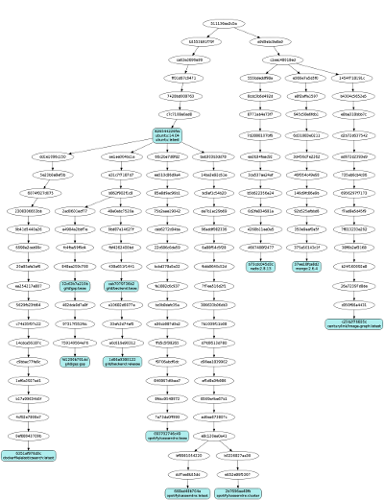
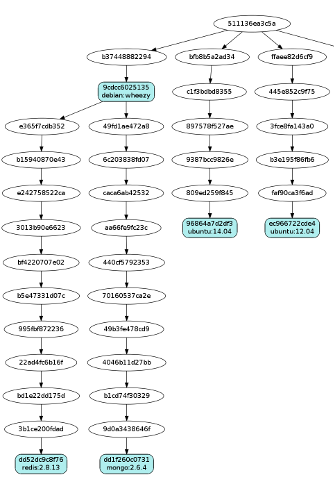
Added more slides on images

Changed region(s): [[0.0, 0.03, 1.0, 1.0]]

diff --git a/styles/main.scss b/styles/main.scss
@@ -1,0 +1,312 @@
+@import '../bower_components/normalize-scss/normalize';
+
+//variables
+$slideWidth: 1024px;
+$slideHeight: 640px;
+
+*, *:before, *:after {
+  box-sizing: border-box;
+}
+
+body {
+  overflow: hidden;
+  margin: 0;
+  padding: 0;
+}
+
+table {
+  width: 100%;
+  tr {
+    th, td {
+      padding: 10px;
+    }
+  }
+}
+
+#deck {
+  position: relative;
+}
+
+.slide {
+  position: absolute;
+  top: 50%;
+  left: -50%;
+  overflow: hidden;
+  height: $slideHeight;
+  width: $slideWidth;
+  padding: 30px;
+  transition: all .6s ease;
+  &.preview {
+    left: 100%;
+    top: 40px;
+  }
+  &.current {
+    left: 50%;
+    &.preview {
+      left: 40px;
+      top: 40px;
+    }
+  }
+  &.next {
+    &.preview {
+      left: 50%;
+      top: 40px;
+    }
+  }
+}
+
+#go-to {
+  z-index: 90;
+  width: 160px;
+  position: absolute;
+  left: 50%;
+  top: 0;
+  margin-left: -80px;
+  padding: 10px;
+  text-align: center;
+  border: 2px solid lighten(rgba(#000, .6), 40);
+  border-radius: 0 0 6px 6px;
+  color: #fff;
+  font-weight: bold;
+  background-color: rgba(#000, .6);
+  &.ng-hide {
+    top: -100px;
+  }
+  &.ng-hide-remove, &.ng-hide-add {
+    transition: all .4s ease;
+    display: block !important;
+  }
+  input {
+    width: 58px;
+    margin-left: 4px;
+    padding: 4px;
+    text-align: center;
+    color: #333;
+    border: none;
+  }
+}
+
+.credits {
+  position: absolute;
+  right: 0;
+  bottom: 20px;
+  padding: 0 20px 0 10px;
+  font-size: .8em;
+  color: #ccc;
+  background-color: rgba(#000, .6);
+  a {
+    color: #ccc;
+  }
+}
+
+#progress-bar {
+  z-index: 90;
+  position: absolute;
+  left: 0;
+  bottom: 0;
+  height: 8px;
+  transition: width .5s ease;
+}
+
+#slide-count {
+  position: absolute;
+  right: 20px;
+  bottom: 20px;
+  margin: 0;
+  padding: 5px 10px;
+  letter-spacing: .2em;
+}
+
+.abs-center {
+  position: absolute;
+  left: 50%;
+  top: 50%;
+  transform: translate(-50%, -50%);
+  margin: 0;
+}
+
+.flip {
+  display: block;
+  position: absolute;
+  left: 20px;
+  bottom: 20px;
+  .clock {
+    font-size: 0;
+    font-family: Arial, Verdana, sans-serif;
+    font-weight: bold;
+    * {
+      font-size: 70px;
+    }
+    > span {
+      position: relative;
+      display: inline-block;
+      margin-right: 10px;
+      padding: 5px 15px;
+      border-radius: 4px;
+      color: #fff;
+      box-shadow: 1px 1px 1px #555;
+      background-color: #333;
+      background: -webkit-linear-gradient(top, #333 0%, #444 50%, #333 51%, #222 100%);
+      background: linear-gradient(to bottom, #333 0%, #444 50%, #333 51%, #222 100%);
+      &:after {
+        content: '';
+        position: absolute;
+        left: 0;
+        top: 50%;
+        width: 100%;
+        height: 3px;
+        background-color: #111;
+      }
+    }
+    > b {
+      color: #666;
+      margin-right: 10px;
+    }
+  }
+  .commands {
+    text-align: center;
+    .btn {
+      margin: 20px 10px 10px 10px;
+      padding: 5px 10px;
+      border: 1px solid #000;
+      border-radius: 2px;
+      cursor: pointer;
+      color: #dedede;
+      background-color: #333;
+    }
+  }
+}
+
+
+
+/*
+Monokai Sublime style. Derived from Monokai by noformnocontent http://nn.mit-license.org/
+*/
+
+.hljs {
+  display: block;
+  padding: 0.5em;
+  background: #23241f;
+  color: #f8f8f2;
+  text-align: left;
+  font-size: 70%;
+}
+
+.hljs-tag {
+  color: #f8f8f2;
+}
+
+.css {
+  .hljs-rules, .hljs-value, .hljs-function .hljs-preprocessor {
+    color: #f8f8f2;
+  }
+}
+
+.hljs-pragma {
+  color: #f8f8f2;
+}
+
+.hljs-strongemphasis, .hljs-strong, .hljs-emphasis {
+  color: #a8a8a2;
+}
+
+.hljs-bullet, .hljs-blockquote, .hljs-horizontal_rule, .hljs-number, .hljs-regexp, .alias .hljs-keyword, .hljs-literal, .hljs-hexcolor {
+  color: #ae81ff;
+}
+
+.hljs-tag .hljs-value, .hljs-code, .hljs-title, .css .hljs-class, .hljs-class .hljs-title:last-child {
+  color: #a6e22e;
+}
+
+.hljs-link_url {
+  font-size: 80%;
+}
+
+.hljs-strong, .hljs-strongemphasis {
+  font-weight: bold;
+}
+
+.hljs-emphasis, .hljs-strongemphasis, .hljs-class .hljs-title:last-child {
+  font-style: italic;
+}
+
+.hljs-keyword, .hljs-function, .hljs-change, .hljs-winutils, .hljs-flow, .lisp .hljs-title, .clojure .hljs-built_in, .nginx .hljs-title, .tex .hljs-special, .hljs-header, .hljs-attribute {
+  color: #f92672;
+}
+
+.hljs-symbol {
+  color: #f92672;
+  .hljs-string {
+    color: #f92672;
+  }
+}
+
+.hljs-tag .hljs-title, .hljs-value, .alias .hljs-keyword:first-child {
+  color: #f92672;
+}
+
+.css {
+  .hljs-tag, .unit, .hljs-important {
+    color: #f92672;
+  }
+}
+
+.hljs-function .hljs-keyword, .hljs-class .hljs-keyword:first-child, .hljs-constant, .css .hljs-attribute {
+  color: #66d9ef;
+}
+
+.hljs-variable, .hljs-params, .hljs-class .hljs-title {
+  color: #f8f8f2;
+}
+
+.hljs-string, .css .hljs-id, .hljs-subst, .haskell .hljs-type, .ruby .hljs-class .hljs-parent, .hljs-built_in {
+  color: #e6db74;
+}
+
+.django {
+  .hljs-template_tag, .hljs-variable {
+    color: #e6db74;
+  }
+}
+
+.smalltalk .hljs-class, .django .hljs-filter .hljs-argument {
+  color: #e6db74;
+}
+
+.smalltalk {
+  .hljs-localvars, .hljs-array {
+    color: #e6db74;
+  }
+}
+
+.hljs-attr_selector, .hljs-pseudo, .hljs-addition, .hljs-stream, .hljs-envvar {
+  color: #e6db74;
+}
+
+.apache {
+  .hljs-tag, .hljs-cbracket {
+    color: #e6db74;
+  }
+}
+
+.tex .hljs-command, .hljs-prompt, .hljs-link_label, .hljs-link_url {
+  color: #e6db74;
+}
+
+.hljs-comment, .hljs-javadoc, .java .hljs-annotation, .python .hljs-decorator, .hljs-template_comment, .hljs-pi, .hljs-doctype, .hljs-deletion, .hljs-shebang, .apache .hljs-sqbracket, .tex .hljs-formula {
+  color: #75715e;
+}
+
+.coffeescript .javascript, .javascript .xml, .tex .hljs-formula {
+  opacity: 0.5;
+}
+
+.xml {
+  .javascript, .vbscript, .css, .hljs-cdata, .php {
+    opacity: 0.5;
+  }
+}
+
+.php .xml {
+  opacity: 0.5;
+}

diff --git a/slides.html b/slides.html
@@ -103,12 +103,53 @@
     Each layer is cached (possibly) reused by other images.
   </p>
   <p>
-    This means that if multiple images derive from <code class='inline'>ubuntu:14.04</code>
+    This means that if multiple images derive from <code class='inline'>debian:wheezy</code>
     that particular image is shared by all of them (thus downloaded once)
   </p>
   <p>
-     Images are stored in the hub and dowloaded from them.
+     Images are pushed/pull to/from the docker hub.
   </p>
+</slide>
+
+<slide>
+  <h2>Docker Images (3)</h2>
+  <code hljs>
+$ docker images
+REPOSITORY                TAG                 IMAGE ID            CREATED             VIRTUAL SIZE
+redis                     2.8.13              dd52dc9c8f76        9 minutes ago       98.44 MB
+mongo                     2.6.4               dd1f260c0731        12 minutes ago      391.2 MB
+debian                    wheezy              9cdcc6025135        18 hours ago        85.19 MB
+ubuntu                    14.04               96864a7d2df3        2 days ago          204.4 MB
+ubuntu                    12.04               ec966722cde4        2 days ago          103.8 MB
+  </code>
+</slide>
+
+<slide>
+  <h2>Docker Images (4)</h2>
+  <code hljs>
+$ docker images --tree
+└─511136ea3c5a Virtual Size: 0 B
+  └─b37448882294 Virtual Size: 85.19 MB
+    └─9cdcc6025135 Virtual Size: 85.19 MB Tags: debian:wheezy
+      ├─e365f7cdb352 Virtual Size: 85.52 MB
+      │ └─b15940870e43 Virtual Size: 85.52 MB
+
+      │             └─22ad4fc6b16f Virtual Size: 98.44 MB
+      │               └─bd1e22dd175d Virtual Size: 98.44 MB
+      │                 └─3b1ce200fdad Virtual Size: 98.44 MB
+      │                   └─dd52dc9c8f76 Virtual Size: 98.44 MB Tags: redis:2.8.13
+      └─49fd1ae472a8 Virtual Size: 85.52 MB
+        └─6c203838fd07 Virtual Size: 99.62 MB
+          └─caca6ab42532 Virtual Size: 101.7 MB
+            └─aa66fe9fc23c Virtual Size: 101.8 MB
+              └─440cf5792353 Virtual Size: 101.8 MB
+                └─70160537ca2e Virtual Size: 391.2 MB
+                  └─49b3fe478cd9 Virtual Size: 391.2 MB
+                    └─4046b11d27bb Virtual Size: 391.2 MB
+                      └─b1cd74f30329 Virtual Size: 391.2 MB
+                        └─9d0a3438646f Virtual Size: 391.2 MB
+                          └─dd1f260c0731 Virtual Size: 391.2 MB Tags: mongo:2.6.4
+  </code>
 </slide>
 <!--
 <slide>

diff --git a/styles/main.css b/styles/main.css
@@ -490,7 +490,8 @@ Monokai Sublime style. Derived from Monokai by noformnocontent http://nn.mit-lic
   padding: 0.5em;
   background: #23241f;
   color: #f8f8f2;
-  text-align: left; }
+  text-align: left;
+  font-size: 70%; }
 
 .hljs-tag {
   color: #f8f8f2; }
